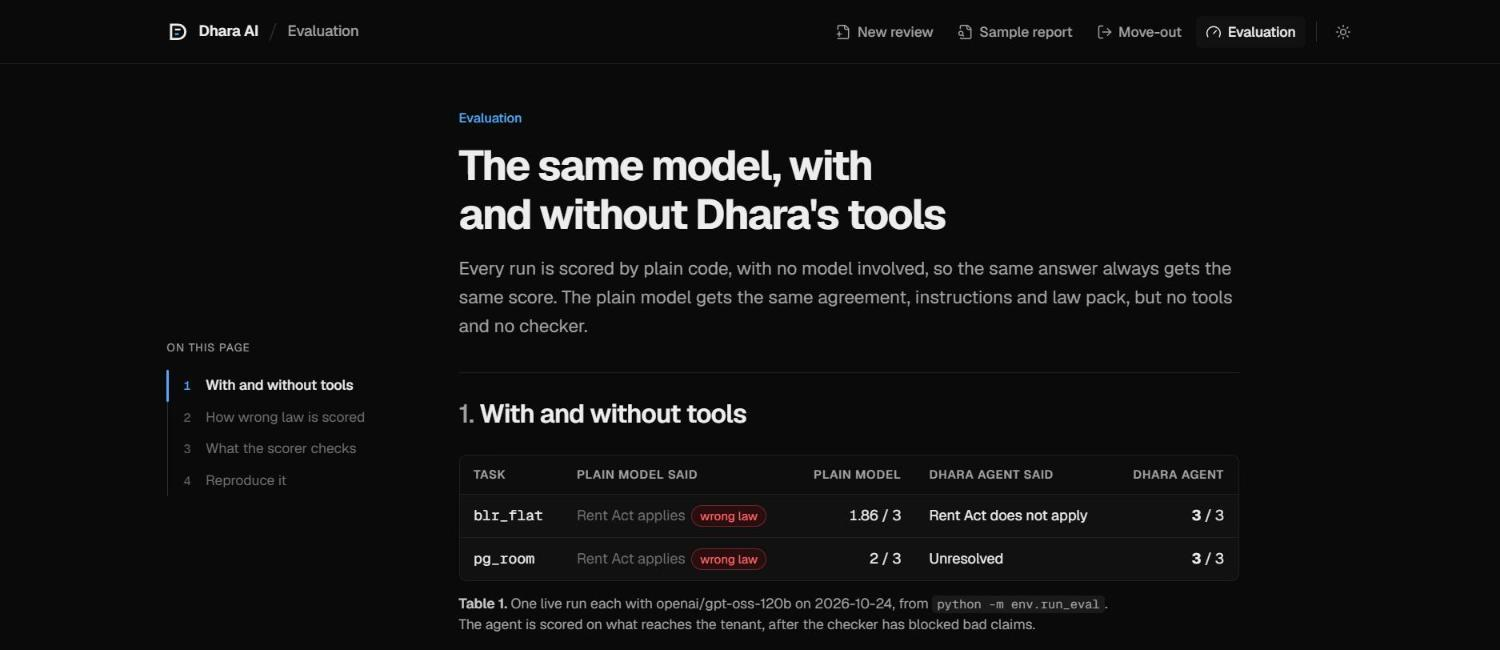
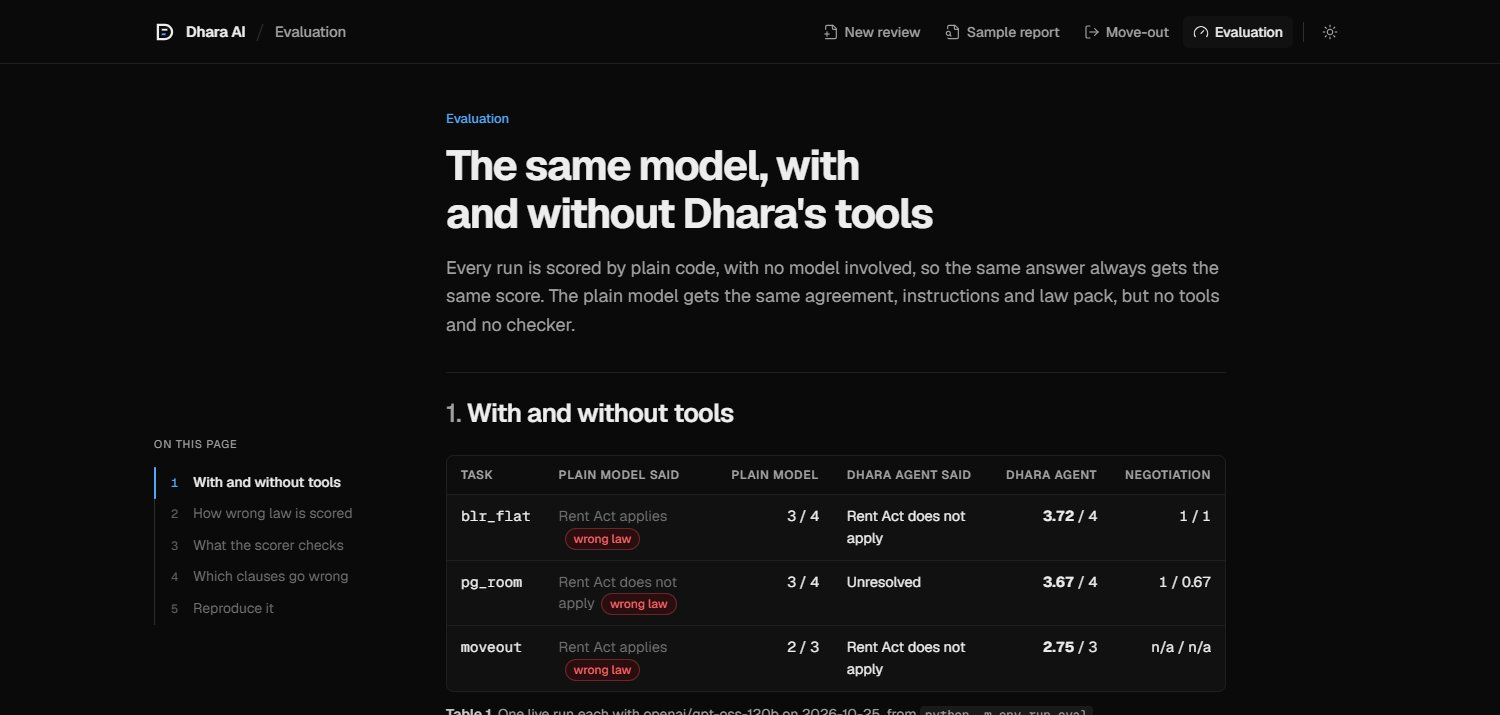
docs: README negotiation, itemisation-first, updated scores and screenshots

diff --git a/README.md b/README.md
@@ -10,15 +10,15 @@ English, Kannada and Hindi | Karnataka law pack | Web app
 
 ## Results
 
-The same model reviews each test agreement twice: once with no tools and no verifier, once as the full Dhara agent. Scores are out of 3, from the deterministic scorer [`env/scorer.py`](env/scorer.py) ([`env/results/scores.md`](env/results/scores.md)) [[R13]](docs/REFERENCES.md#evaluation):
+The same model reviews each test agreement twice: once with no tools and no verifier, once as the full Dhara agent. On the two pre-signing tasks both then negotiate two rounds against the same scripted strict owner. Scores come from the deterministic scorer [`env/scorer.py`](env/scorer.py) ([`env/results/scores.md`](env/results/scores.md)) [[R13]](docs/REFERENCES.md#evaluation): governing law, money within Rs 500, citations that exist, and negotiation correct (did the tenant accept exactly the offers that were acceptable), out of 4; the move-out task has no negotiation and is out of 3.
 
 | Task | Plain model | Dhara agent |
 | --- | --- | --- |
-| `blr_flat`: Bengaluru flat, five unfair clauses | **1.78**, said the Rent Act applies | **3.00** |
-| `pg_room`: PG room, building age unknown | **2.00**, said the Rent Act applies | **3.00** |
-| `moveout`: three claimed deductions against the move-in checklist | **2.00**, said the Rent Act applies | **2.67**, gave no section for the cleaning charge it allowed |
+| `blr_flat`: Bengaluru flat, five unfair clauses, four negotiated | **3.00 / 4**, said the Rent Act applies | **3.72 / 4**, missed one of five clauses |
+| `pg_room`: PG room, building age unknown, three negotiated | **3.00 / 4**, said the Rent Act does not apply | **3.67 / 4**, countered a cleaning charge that was within the limit |
+| `moveout`: three claimed deductions against the move-in checklist | **2.00 / 3**, said the Rent Act applies | **2.75 / 3** |
 
-Both got the rupee amounts right. Without the rent-law test, the plain model assumed the Karnataka Rent Act protects the tenant on every task. One live run each with `openai/gpt-oss-120b`, so the plain model's score varies a little between runs; reproduce with `python -m env.run_eval`.
+Without the rent-law test, the plain model named the wrong governing law on every task. In negotiation, both chose correctly on the flat; the plain model also cited a Rent Act section (KRA-15) for a flat the Act does not cover, which nothing checked, while every section the agent cited passed the verifier. In this run the model never tried to accept past the tenant's limits, so the code that enforces them did not have to act. One live run each with `openai/gpt-oss-120b` on 25 Oct 2026, so scores vary a little between runs; reproduce with `python -m env.run_eval`.
 
 ---
 
@@ -45,8 +45,13 @@ Dhara (धारा) is what Indian law calls a section, as in "Dhara 302". Our 
 3. **Act:** the AI records each unfair clause with the facts it reads from it; our tools decide which law applies and compute the rupees at risk.
 4. **Verify:** every legal claim must cite a section that exists, applies in Karnataka and covers this flat; anything else is blocked.
 5. **Draft and wait:** a counter-proposal in English, Kannada and Hindi, each clause asking for a specific change with the section it rests on. Nothing goes out until the tenant approves, and approval records a follow-up; Dhara never sends anything itself.
+6. **Negotiate within your limits:** as soon as the findings exist, Dhara negotiates two rounds with a scripted landlord (a strict owner or a reasonable broker). Per round the AI makes one call to accept, reject or counter each offer, citing a section for every reject or counter; the verifier checks each section, and code turns any accept past the tenant's own limits (lock-in, refund days, exit painting) into a reject. The tenant approves the agreed terms once, and the letter is rewritten from them, keeping the tenant's ask for any clause still open.
 
-At move-out, the same pattern checks each deduction the landlord claims against the agreement and the dated move-in checklist: the AI records allowed or disputed with the evidence it relied on, code checks the sections, drafts the challenge and gives the next formal step (written demand, legal notice, then the Rent Controller only where the Act applies, otherwise a civil recovery suit; never a police complaint).
+At move-out, the same pattern checks each deduction the landlord claims against the agreement and the dated move-in checklist: the AI records allowed or disputed with the evidence it relied on, code checks the sections, drafts the challenge and gives the next formal step (written demand, legal notice, then the Rent Controller only where the Act applies, otherwise a civil recovery suit; never a police complaint). If the landlord sends one number, such as "painting and repairs 80396", Dhara does not dispute a figure it cannot see: it drafts a request for the itemised list with bills within 7 days (Indian Contract Act s.74: only reasonable compensation is recoverable), and checks each item once the list arrives.
+
+![Negotiation rounds on the review report](docs/screenshots/negotiation.jpg)
+
+![Itemisation first at move-out](docs/screenshots/itemisation.jpg)
 
 ![Intake form](docs/screenshots/intake.jpg)
 
@@ -57,13 +62,17 @@ At move-out, the same pattern checks each deduction the landlord claims against 
 | Read the clauses, decide what to check, extract amounts and conditions | AI (tool calls) | [`backend/agent/tenant.py`](backend/agent/tenant.py) |
 | Allowed or disputed for each move-out deduction, with checklist evidence | AI (tool calls) | [`backend/agent/moveout.py`](backend/agent/moveout.py) |
 | Next formal step after a refused refund | Code, fixed routes | [`backend/agent/moveout.py`](backend/agent/moveout.py) |
+| A lump-sum deduction: ask for the itemised list first | Code | [`backend/agent/moveout.py`](backend/agent/moveout.py) |
+| The landlord's offers and concessions | Code, a scripted move table per persona | [`backend/agent/landlord.py`](backend/agent/landlord.py), [`env/tasks/`](env/tasks/) |
+| Accept, reject or counter each offer, with a section | AI (one tool call per round) | [`backend/agent/negotiation.py`](backend/agent/negotiation.py) |
+| Never settle past the tenant's limits | Code | [`backend/agent/negotiation.py`](backend/agent/negotiation.py) |
 | Does the Karnataka Rent Act apply to this flat? | Code | [`backend/tools/law.py`](backend/tools/law.py) |
 | Rupees at risk per clause | Code, fixed formulas | [`backend/tools/money.py`](backend/tools/money.py) |
 | Is a citation allowed? | Code | [`backend/agent/verifier.py`](backend/agent/verifier.py) |
 | Redaction, drafts, approval gate | Code | [`backend/tools/agreement.py`](backend/tools/agreement.py), [`backend/tools/messages.py`](backend/tools/messages.py) |
 | Scoring | Code, no model | [`env/scorer.py`](env/scorer.py) |
 
-Each tool result goes back to the AI before its next step, up to 12 tool calls. If the model is unreachable, a rule-based pass runs instead and the trace says so.
+Each tool result goes back to the AI before its next step, up to 12 tool calls, negotiation included. If the model is unreachable, a rule-based pass runs instead and the trace says so.
 
 ### The Verifier
 
@@ -99,7 +108,11 @@ flowchart LR
     G --> J[check_jurisdiction]
     G --> C[compute_money]
     G --> V[verifier]
-    G --> D[draft_message<br/>EN / KN]
+    G --> D[draft_message<br/>EN / KN / HI]
+    G --> N[Negotiation<br/>backend/agent/negotiation.py]
+    N <-->|decide_offers| M
+    N --> O[Scripted landlord<br/>backend/agent/landlord.py]
+    N --> V
     J --> L[(law/karnataka.json)]
     V --> L
     E[env/run_eval.py] --> G
@@ -115,6 +128,7 @@ flowchart LR
 | **Model** | Groq `openai/gpt-oss-120b` behind one function, [`backend/llm/provider.py`](backend/llm/provider.py) | Pay per token; the provider can be swapped in one file |
 | **State** | In-memory runs keyed by id | No database or queue for a single-user review |
 | **Long runs** | The agent runs as a background task; the screen polls and shows the trace filling in | A review takes up to a minute with rate limits |
+| **Landlord** | A scripted move table per persona, not a second model | One model call per round, reproducible demos, and the scorer knows which offers were acceptable |
 | **Frontend** | Next.js, with a sample mode built from the real tools ([`env/make_frontend_stubs.py`](env/make_frontend_stubs.py)) | The screens work and stay honest before the backend runs |
 
 ## Quick Start
@@ -126,7 +140,7 @@ flowchart LR
 
 ### Configuration
 
-Copy `.env.example` to `.env` and set `GROQ_API_KEY`. Never commit real keys; `.env` is ignored by git.
+Copy `.env.example` to `.env` and set `GROQ_API_KEY`. Several keys can be given comma-separated; on a rate limit the provider moves to the next one. Never commit real keys; `.env` is ignored by git.
 
 ### Backend
 
@@ -149,8 +163,8 @@ Open http://localhost:3000, press **Use the sample agreement**, leave **Year bui
 
 ```bash
 python -m pytest -q                                                  # tools, verifier, scorer, agent loop, API
-python -m env.scorer env/tasks/blr_flat.json env/tasks/sample_run.json   # 3/3
-python -m env.run_eval                                               # plain model vs agent, needs GROQ_API_KEY
+python -m env.scorer env/tasks/blr_flat.json env/tasks/sample_run.json   # 3; the sample run has no negotiation
+python -m env.run_eval                                               # plain model vs agent, needs GROQ_API_KEY (EVAL_PAUSE_S spaces runs)
 ```
 
 ## Project Structure
@@ -163,13 +177,15 @@ dhara/
   ├── backend/
   │   ├── main.py               # FastAPI: runs, answer, approve; move-out reviews
   │   ├── agent/tenant.py       # Agent loop: tool calls, question, fallback, trace
-  │   ├── agent/moveout.py      # Flow 2: deduction verdicts, challenge, next formal step
+  │   ├── agent/moveout.py      # Flow 2: itemisation first, deduction verdicts, challenge, next formal step
+  │   ├── agent/negotiation.py  # Two rounds: decide_offers, verifier, limits enforced in code
+  │   ├── agent/landlord.py     # Scripted landlord: opening and concession per persona
   │   ├── agent/verifier.py     # Citation check
   │   ├── llm/provider.py       # The one model entry point
   │   └── tools/                # law, agreement (redaction), money, messages
   ├── env/
-  │   ├── tasks/                # blr_flat, pg_room, moveout (synthetic)
-  │   ├── scorer.py             # Governing law, money within Rs 500, citations, wrong-law penalty
+  │   ├── tasks/                # blr_flat, pg_room, moveout (synthetic), with landlord moves
+  │   ├── scorer.py             # Governing law, money within Rs 500, citations, negotiation correct, wrong-law penalty
   │   ├── run_eval.py           # Plain model vs agent
   │   └── results/              # scores.md, scores.json
   ├── frontend/                 # Next.js: intake, review report, move-out, evaluation
@@ -207,7 +223,9 @@ It scales because law is data: bringing Dhara to another state means sourcing it
 - [x] **Speak the terms:** the facts form can be filled by voice; Groq Whisper transcribes, the transcript is redacted, and the model fills only fields the tenant mentioned, which they check before submitting.
 - [x] **Share on WhatsApp:** once the tenant approves a letter, WhatsApp opens with it filled in; the tenant picks the contact and sends it. Dhara never sends anything itself.
 - [x] **Clause-type chart** on the Evaluation page: which unfair clauses appear across the test agreements; with consent, the same view by locality is the next step.
-- [ ] Stretch: a landlord agent that pushes back, a test of public chatbots.
+- [x] **Negotiation within the tenant's limits:** two rounds against a scripted strict owner or reasonable broker, one model call per round, limits enforced in code, the verifier on every reason, a rule-based fallback, and one approval of the agreed terms; scored as a fourth check.
+- [x] **Itemisation first at move-out:** a one-line deduction gets a request for the itemised list in English, Kannada and Hindi before any item is disputed.
+- [ ] Stretch: a test of public chatbots.
 
 ## Before and after
 
@@ -215,10 +233,12 @@ It scales because law is data: bringing Dhara to another state means sourcing it
 | --- | --- |
 | Offline rules-based Karnataka applicability screening and clause extraction | Sourced law pack, `check_jurisdiction` and the citation verifier with wrong-law blocking |
 | English, Kannada and Hindi message templates | Model-driven agent loop with tool calls, a single missing-fact question and a rule-based fallback |
-| Scripted counterparty negotiation | Three scored tasks, the deterministic scorer and the plain-model vs agent runner |
+| Scripted counterparty negotiation (rules only, no model) | Three scored tasks, the deterministic scorer and the plain-model vs agent runner |
 | Local PDF extraction and OCR | In-memory agreement reading with PII redaction, money formulas and the approval gate |
 | OpenEnv tasks, deterministic grading and tests | FastAPI endpoints for runs, answers and approvals |
 | Offline housing review without a model; a separate legacy model inference script | Next.js review report, decision trace, Kannada and Hindi drafts, move-out flow and evaluation page |
+| | Pre-signing negotiation: a new landlord move table, the model deciding each offer, tenant limits enforced in code, the negotiation_correct check; it does not use the prototype's negotiator |
+| | Itemisation-first letters for lump-sum move-out deductions |
 
 ## Built at ChronoForge
 
@@ -231,6 +251,8 @@ It scales because law is data: bringing Dhara to another state means sourcing it
 - [x] Next.js review and move-out screens with English, Kannada and Hindi drafts
 - [x] Baseline versus agent evaluation results
 - [x] Move-out deduction challenges and next formal step
+- [x] Two-round negotiation with a scripted landlord, tenant limits and a negotiation score
+- [x] Itemisation-first request for lump-sum move-out deductions
 
 ## Run the imported prototype
 
